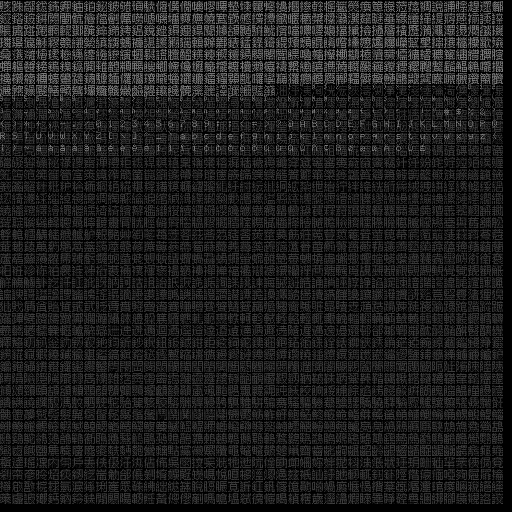
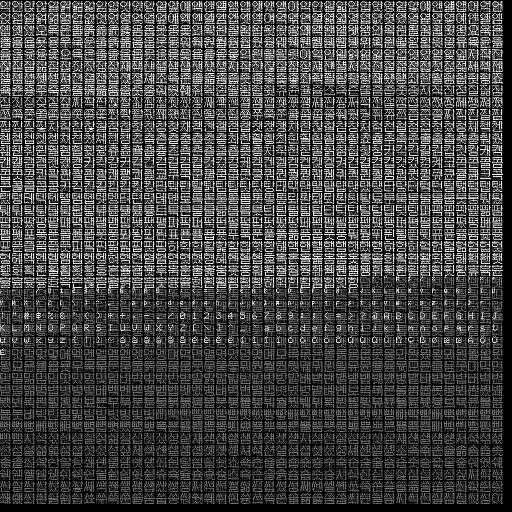
Korean on the display (1.7.0)
- KS X 1001: 2,350 Hangul syllables + compatibility jamo in the display font
- Korean lines break at spaces; full-width blanks between Korean words keep a line in one code mode

diff --git a/kd_display/kd/layout.py b/kd_display/kd/layout.py
@@ -4,6 +4,11 @@ from .config import MODE_ASCII, MODE_TINY, MODE_SMALL, SMALL_FONTS
 from .tiny import SMALL_CODES, fold
 
 NO_START = set("，。、；：？！）」』】》〉…—～·,.;:?!)]}%")
+def hangul(ch):
+    """a Korean syllable / jamo: Korean breaks lines at spaces, like latin words"""
+    return "\uac00" <= ch <= "\ud7a3" or "\u3131" <= ch <= "\u318e"
+
+
 NO_END = set("（「『【《〈([{")
 
 
@@ -53,12 +58,22 @@ class Layout:
             text = fold(text, extra=scale == "small")    # accents the font lacks: dropped (é stays, ș -> s)
         for para in text.split("\n"):
             cells = [self.glyph(ch, scale) + (self.width(self.glyph(ch, scale)[0], scale), ch) for ch in para]
+            if scale not in SMALL_FONTS:
+                # a space between Korean words: the full-width blank (U+3000), so a Korean line stays in one code mode
+                # (every switch to ASCII and back costs two run headers: a line of short words would not fit its memory)
+                for k in range(1, len(para) - 1):
+                    if para[k] == " " and hangul(para[k - 1]) and hangul(para[k + 1]):
+                        g = self.glyph("\u3000", scale)
+                        cells[k] = g + (self.width(g[0], scale), " ")
             LATIN = (MODE_ASCII, MODE_TINY, MODE_SMALL)
             units, i = [], 0
-            while i < len(cells):                     # a latin word is one unit; everything else one character
+            while i < len(cells):                     # a latin / Korean word is one unit; everything else one character
                 j = i + 1
-                if cells[i][3] != " " and cells[i][0] in LATIN:
-                    while j < len(cells) and cells[j][0] in LATIN and cells[j][3] != " ":
+                if cells[i][3] != " " and (cells[i][0] in LATIN or hangul(cells[i][3])):
+                    kor = hangul(cells[i][3])
+                    while j < len(cells) and cells[j][3] != " " and (cells[j][0] in LATIN or hangul(cells[j][3])
+                                                                     or kor and cells[j][3] in NO_START):
+                        kor = kor or hangul(cells[j][3])
                         j += 1
                 units.append(cells[i:j]); i = j
             line, w, lines = [], 0, []

diff --git a/tests/test_translate_wings.py b/tests/test_translate_wings.py
@@ -222,3 +222,11 @@ def test_small_font_accents():
     lines = d.layout.lines("Größe déjà vu, Łódź ¿qué?", 176, "small")
     text = "".join(ch[3] for ch in lines[0])
     assert text == "Größe déjà vu, Lódz qué?" and not d.layout.missing
+
+
+def test_korean_glyphs_and_word_wrap():
+    """Korean (KS X 1001 syllables) has glyphs and breaks lines at spaces"""
+    d = Display(dry=True)
+    lines = d.layout.lines("오늘 날씨가 정말 좋네요, 같이 산책하러 갈래요?", 176)
+    assert not d.layout.missing
+    assert all(not "".join(c[3] for c in l).endswith(("오", "날", "씨")) for l in lines[:-1])

diff --git a/version.py b/version.py
@@ -1,2 +1,2 @@
 """The version of kdchat: the single source (pyproject.toml must match; a test checks it)."""
-__version__ = "1.6.1"
+__version__ = "1.7.0"

diff --git a/CHANGELOG.md b/CHANGELOG.md
@@ -3,6 +3,14 @@
 All notable changes to kdchat. The format follows [Keep a Changelog](https://keepachangelog.com/en/1.1.0/);
 versions follow [Semantic Versioning](https://semver.org/).
 
+## [1.7.0] - 2026-10-07
+
+### Added
+- **Korean on the Klaude display** (needs the avatar with the 1.7.0 menu icon; older avatars show □): the 2,350 common
+  Hangul syllables of KS X 1001 and the compatibility jamo. Korean lines break at spaces, like English; the space between Korean words is a full-width blank (a
+  line stays in one code mode and fits its memory). The font grew
+  by 2,443 glyphs; the codes of every other character are unchanged.
+
 ## [1.6.1] - 2026-10-07
 
 ### Fixed
